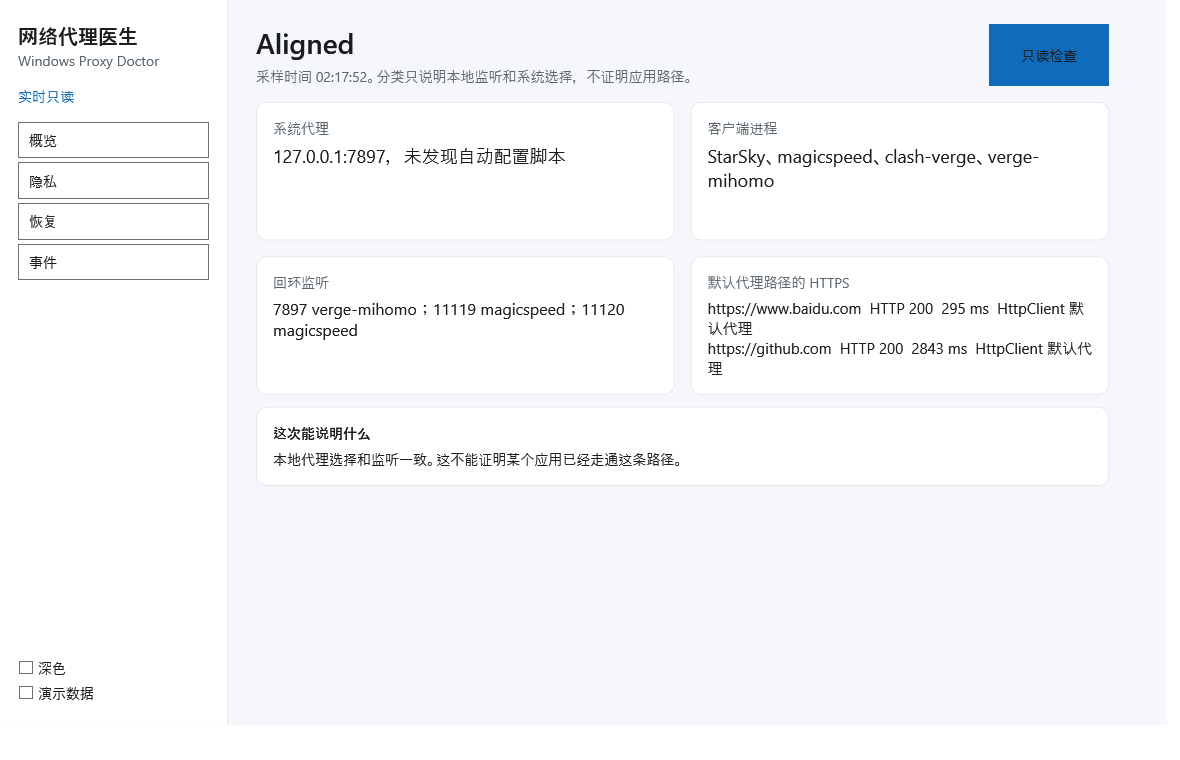
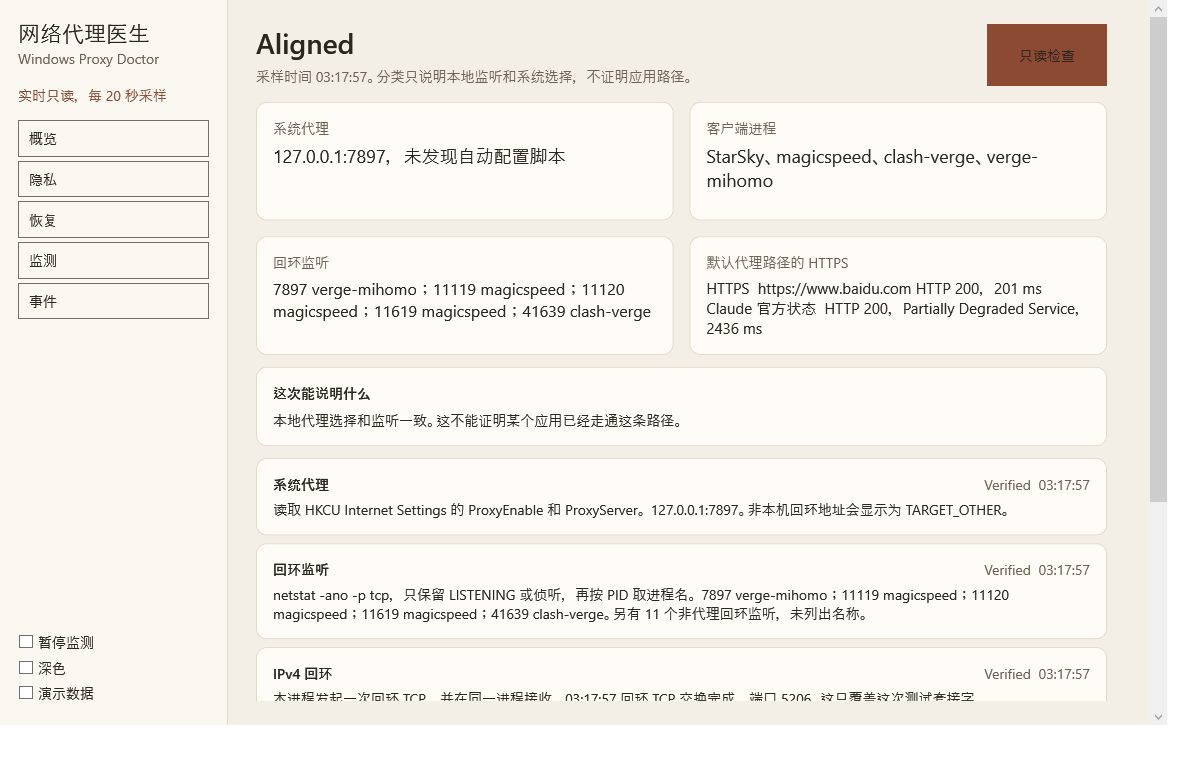
Run each desktop check separately and alert only when the sampled state changes.
Drain netstat output while waiting so a full listener table is not mistaken for a closed proxy.

diff --git a/desktop/src/ProxyDoctor.Desktop/MainWindow.xaml b/desktop/src/ProxyDoctor.Desktop/MainWindow.xaml
@@ -90,6 +90,21 @@
               <TextBlock Text="{Binding Advice}" TextWrapping="Wrap" Margin="0,8,0,0" />
             </StackPanel>
           </Border>
+          <ItemsControl ItemsSource="{Binding Checks}" Margin="0,12,0,0">
+            <ItemsControl.ItemTemplate>
+              <DataTemplate>
+                <Border Background="{DynamicResource App.Card}" BorderBrush="{DynamicResource App.Line}" BorderThickness="1" CornerRadius="10" Padding="16" Margin="0,0,0,8">
+                  <StackPanel>
+                    <DockPanel>
+                      <TextBlock DockPanel.Dock="Right" Text="{Binding State}" Foreground="{DynamicResource App.Muted}" />
+                      <TextBlock Text="{Binding Name}" FontWeight="SemiBold" />
+                    </DockPanel>
+                    <TextBlock Text="{Binding Detail}" TextWrapping="Wrap" Margin="0,6,0,0" />
+                  </StackPanel>
+                </Border>
+              </DataTemplate>
+            </ItemsControl.ItemTemplate>
+          </ItemsControl>
         </StackPanel>
 
         <StackPanel x:Name="PrivacyPage" Visibility="Collapsed">

diff --git a/desktop/src/ProxyDoctor.Core/Checks.cs b/desktop/src/ProxyDoctor.Core/Checks.cs
@@ -1,0 +1,109 @@
+namespace ProxyDoctor;
+
+public sealed record CheckResult(
+    string Id,
+    string Name,
+    string Purpose,
+    string Method,
+    EvidenceState State,
+    string Detail,
+    DateTimeOffset SampledAt,
+    bool NeedsAuthorization);
+
+public static class CheckRunner
+{
+    public static IReadOnlyList<string> Ids { get; } =
+        ["selection", "listeners", "ipv4", "ipv6", "https", "claude-status"];
+
+    public static async Task<IReadOnlyList<CheckResult>> RunAll(CancellationToken cancellationToken)
+    {
+        var results = new List<CheckResult>();
+        foreach (var id in Ids)
+        {
+            cancellationToken.ThrowIfCancellationRequested();
+            results.Add(await RunOne(id, cancellationToken));
+        }
+        return results;
+    }
+
+    public static async Task<CheckResult> RunOne(string id, CancellationToken cancellationToken)
+    {
+        var at = DateTimeOffset.Now;
+        return id switch
+        {
+            "selection" => Selection(at),
+            "listeners" => Listeners(at),
+            "ipv4" => FromCapability("ipv4", "IPv4 回环", "确认本机 IPv4 回环还能交换数据。", LiveChecks.Loopback("IPv4 回环", System.Net.Sockets.AddressFamily.InterNetwork), at),
+            "ipv6" => FromCapability("ipv6", "IPv6 回环", "记录 IPv6 回环是交换成功、明确拒绝还是超时。", LiveChecks.Loopback("IPv6 回环", System.Net.Sockets.AddressFamily.InterNetworkV6), at),
+            "https" => await Https(at, cancellationToken),
+            "claude-status" => await Claude(at, cancellationToken),
+            _ => new CheckResult(id, id, "未知项目", "未执行", EvidenceState.Unknown, "没有这项检查。", at, false)
+        };
+    }
+
+    private static CheckResult Selection(DateTimeOffset at)
+    {
+        var selection = NetworkReader.DescribeSelection();
+        var state = selection is "UNKNOWN" ? EvidenceState.Unknown : EvidenceState.Verified;
+        return new CheckResult("selection", "系统代理", "读取当前用户的代理开关，不修改它。",
+            "读取 HKCU Internet Settings 的 ProxyEnable 和 ProxyServer。", state,
+            selection + "。非本机回环地址会显示为 TARGET_OTHER。", at, false);
+    }
+
+    private static CheckResult Listeners(DateTimeOffset at)
+    {
+        var rows = NetworkReader.ReadListeners();
+        var detail = rows.Count == 0
+            ? "没有读到代理相关的回环 LISTENING 记录。空结果不能当成端口已经关闭。"
+            : string.Join("；", rows.Select(item => item.Port + " " + item.ProcessName))
+              + "。另有 " + NetworkReader.OtherLoopbackListenerCount() + " 个非代理回环监听，未列出名称。";
+        return new CheckResult("listeners", "回环监听", "看本机回环上谁在监听，不用固定端口猜测角色。",
+            "netstat -ano -p tcp，只保留 LISTENING 或侦听，再按 PID 取进程名。",
+            rows.Count == 0 ? EvidenceState.Unknown : EvidenceState.Verified, detail, at, false);
+    }
+
+    private static async Task<CheckResult> Https(DateTimeOffset at, CancellationToken cancellationToken)
+    {
+        var probes = await HttpsProbe.SampleAsync(cancellationToken);
+        var first = probes.FirstOrDefault();
+        var detail = first is null
+            ? "没有采样。"
+            : first.StatusCode is null
+                ? first.Target + " " + (first.Error ?? "无状态码") + "，" + first.ElapsedMs + " ms"
+                : first.Target + " HTTP " + first.StatusCode + "，" + first.ElapsedMs + " ms";
+        return new CheckResult("https", "HTTPS", "看默认代理路径能否拿到响应头。一次 200 不是整机保护。",
+            "HttpClient 默认代理，只读响应头。", first?.StatusCode is null ? EvidenceState.Unknown : EvidenceState.Verified,
+            detail, at, false);
+    }
+
+    private static async Task<CheckResult> Claude(DateTimeOffset at, CancellationToken cancellationToken)
+    {
+        var probe = await LiveChecks.ClaudeStatusAsync(cancellationToken);
+        var detail = probe.StatusCode is null
+            ? (probe.Error ?? "没有读到状态") + "，" + probe.ElapsedMs + " ms"
+            : "HTTP " + probe.StatusCode + "，" + (probe.Error ?? "无描述") + "，" + probe.ElapsedMs + " ms";
+        return new CheckResult("claude-status", "Claude 官方状态", "读取公开状态接口。这不是账户资格，也不是防封结果。",
+            "GET https://status.claude.com/api/v2/status.json",
+            probe.StatusCode is null ? EvidenceState.Unknown : EvidenceState.Verified, detail, at, false);
+    }
+
+    private static CheckResult FromCapability(string id, string name, string purpose, CapabilityFact fact, DateTimeOffset at) =>
+        new(id, name, purpose, "本进程发起一次回环 TCP，并在同一进程接收。", fact.State, fact.Detail, at, false);
+}
+
+public sealed class AlertGate
+{
+    private string? _last;
+
+    public bool ShouldNotify(string key)
+    {
+        if (_last is null)
+        {
+            _last = key;
+            return false;
+        }
+        if (_last == key) return false;
+        _last = key;
+        return true;
+    }
+}

diff --git a/desktop/src/ProxyDoctor.Desktop/ShellViewModel.cs b/desktop/src/ProxyDoctor.Desktop/ShellViewModel.cs
@@ -1,3 +1,4 @@
+using System.Collections.ObjectModel;
 using CommunityToolkit.Mvvm.ComponentModel;
 using CommunityToolkit.Mvvm.Input;
 using ProxyDoctor;
@@ -23,6 +24,10 @@ public partial class ShellViewModel : ObservableObject
     [ObservableProperty] private bool _paused;
     [ObservableProperty] private string _monitor = "监测尚未开始";
 
+    private readonly AlertGate _alerts = new();
+    public ObservableCollection<CheckRow> Checks { get; } = new();
+    public event Action<string>? AlertRequested;
+
     private readonly PeriodicTimer _timer = new(TimeSpan.FromSeconds(20));
     private readonly CancellationTokenSource _monitorStop = new();
     private int _busyGate;
@@ -34,6 +39,7 @@ public partial class ShellViewModel : ObservableObject
         Status = "模式已切换";
         Summary = value ? "演示数据，不是这台电脑的实时结果。上一次实时结果已清除。" : "已离开演示。上一次结果已清除。";
         Proxy = Clients = Listeners = Probes = Capabilities = Events = "—";
+        Checks.Clear();
         Advice = "等待新的采样。";
         Sampled = false;
         OnPropertyChanged(nameof(ModeLabel));
@@ -55,7 +61,13 @@ public partial class ShellViewModel : ObservableObject
                     try
                     {
                         var report = DiagnosticEngine.ReadLocal();
-                        System.Windows.Application.Current?.Dispatcher.Invoke(() => Apply(report));
+                        var key = report.Fault.Class + "|" + report.ProxySelection;
+                        var notify = _alerts.ShouldNotify(key);
+                        System.Windows.Application.Current?.Dispatcher.Invoke(() =>
+                        {
+                            Apply(report);
+                            if (notify) AlertRequested?.Invoke("状态变为 " + report.Fault.Class + "。这是轮询结果，不是瞬时发现。");
+                        });
                     }
                     catch (OperationCanceledException) { break; }
                     catch { /* the next tick records a fresh sample */ }
@@ -83,10 +95,16 @@ public partial class ShellViewModel : ObservableObject
         Status = "正在读取";
         try
         {
-            var report = Demo
-                ? DiagnosticEngine.Demo()
-                : await DiagnosticEngine.ReadLiveAsync(CancellationToken.None);
+            var report = Demo ? DiagnosticEngine.Demo() : DiagnosticEngine.ReadLocal();
+            var checks = Demo ? Array.Empty<CheckResult>() : await CheckRunner.RunAll(CancellationToken.None);
             Apply(report);
+            ReplaceChecks(checks);
+            if (!Demo)
+            {
+                Probes = string.Join("\n", checks.Where(item => item.Id is "https" or "claude-status")
+                    .Select(item => item.Name + "  " + item.Detail));
+                Capabilities = string.Join("\n", checks.Select(item => item.State + "  " + item.Name + "：" + item.Detail));
+            }
         }
         catch (Exception ex)
         {
@@ -144,4 +162,13 @@ public partial class ShellViewModel : ObservableObject
         Capabilities = string.Join("\n", report.Capabilities.Select(item => $"{item.State}  {item.Name}：{item.Detail}"));
         Events = string.Join("\n", report.Events);
     }
+
+    private void ReplaceChecks(IReadOnlyList<CheckResult> checks)
+    {
+        Checks.Clear();
+        foreach (var item in checks)
+            Checks.Add(new CheckRow(item.Name, item.State + "  " + item.SampledAt.ToString("HH:mm:ss"), item.Method + " " + item.Detail));
+    }
 }
+
+public sealed record CheckRow(string Name, string State, string Detail);

diff --git a/desktop/src/ProxyDoctor.Core/LiveDiagnosis.cs b/desktop/src/ProxyDoctor.Core/LiveDiagnosis.cs
@@ -103,6 +103,7 @@ public static class NetworkReader
     {
         var owners = ReadLoopbackOwners();
         return owners
+            .Where(item => IsProxyProcess(item.ProcessName))
             .Select(item => new ListenerFact(item.Port, item.ProcessName, true))
             .Distinct()
             .ToArray();
@@ -127,6 +128,18 @@ public static class NetworkReader
         return null;
     }
 
+    public static int OtherLoopbackListenerCount()
+    {
+        return ReadLoopbackOwners().Count(item => !IsProxyProcess(item.ProcessName));
+    }
+
+    private static bool IsProxyProcess(string name) =>
+        name.Equals("verge-mihomo", StringComparison.OrdinalIgnoreCase) ||
+        name.Equals("mihomo", StringComparison.OrdinalIgnoreCase) ||
+        name.Equals("magicspeed", StringComparison.OrdinalIgnoreCase) ||
+        name.Equals("clash-verge", StringComparison.OrdinalIgnoreCase) ||
+        name.Equals("StarSky", StringComparison.OrdinalIgnoreCase);
+
     private static IEnumerable<(int Port, string ProcessName)> ReadLoopbackOwners()
     {
         var start = new ProcessStartInfo("netstat", "-ano -p tcp")
@@ -137,12 +150,13 @@ public static class NetworkReader
         };
         using var process = Process.Start(start);
         if (process is null) yield break;
+        var read = process.StandardOutput.ReadToEndAsync();
         if (!process.WaitForExit(4000))
         {
             try { process.Kill(entireProcessTree: true); } catch { /* already gone */ }
-            yield break;
         }
-        var output = process.StandardOutput.ReadToEnd();
+        if (!read.Wait(1000)) yield break;
+        var output = read.Result;
         foreach (var line in output.Split('\n'))
         {
             var parts = line.Split(' ', StringSplitOptions.RemoveEmptyEntries);

diff --git a/desktop/tests/ProxyDoctor.Core.Tests/ClassifierTests.cs b/desktop/tests/ProxyDoctor.Core.Tests/ClassifierTests.cs
@@ -120,6 +120,16 @@ public class ClassifierTests
         Assert.False(RequestRouter.IsDiagnoseRequest("帮我准备代理设置"));
 
     [Fact]
+    public void Alert_gate_is_silent_until_the_key_changes()
+    {
+        var gate = new AlertGate();
+        Assert.False(gate.ShouldNotify("Aligned|127.0.0.1:7897"));
+        Assert.False(gate.ShouldNotify("Aligned|127.0.0.1:7897"));
+        Assert.True(gate.ShouldNotify("ProxyDrift|127.0.0.1:11119"));
+        Assert.False(gate.ShouldNotify("ProxyDrift|127.0.0.1:11119"));
+    }
+
+    [Fact]
     public void Both_off_without_a_record_is_not_confirmed_intent()
     {
         var result = FaultClassifier.Classify(new FaultObservation

diff --git a/desktop/src/ProxyDoctor.Desktop/App.xaml.cs b/desktop/src/ProxyDoctor.Desktop/App.xaml.cs
@@ -17,6 +17,8 @@ public partial class App : System.Windows.Application
         }
         var window = new MainWindow();
         MainWindow = window;
+        if (window.DataContext is ShellViewModel shell)
+            shell.AlertRequested += message => _tray?.ShowBalloonTip(4000, "网络代理医生", message, ToolTipIcon.Warning);
         window.Show();
         _tray = new NotifyIcon
         {
